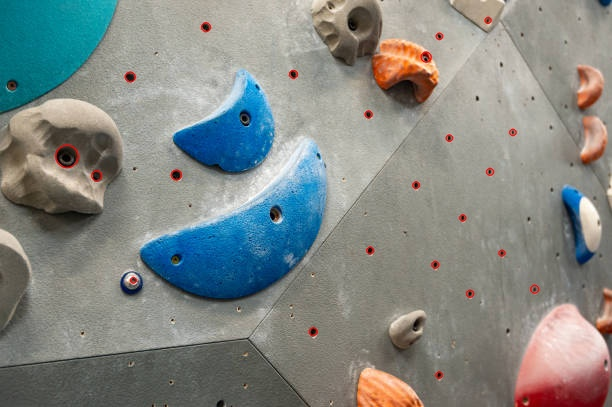
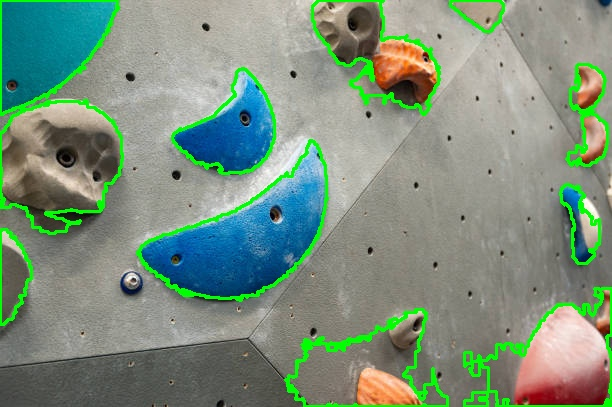
Final update

diff --git a/find_holds.py b/find_holds.py
@@ -1,33 +1,38 @@
 import cv2
 import numpy as np
 
-fileNum = 5
-path1 = f"data\\img{fileNum}.jpg"
-path2 = f"annotated\\img{fileNum}_annotated.jpg"
+fileNum = 3
+path1 = f"data\\img{fileNum}.jpg" #Input file
+path2 = f"annotated\\img{fileNum}_annotated.jpg" #Output file
 img = cv2.imread(path1)
 
-class Hold:
-    def __init__(self, keypoint, points):
-        self.keypoint = keypoint
-        self.points = points
 
 if img is None:
     print("\n\n----------\n\nError: Image not loaded successfully\n\n----------\n\n")
 else:
-    imgray = cv2.cvtColor(img, cv2.COLOR_BGR2GRAY)
-    imgray_blur = cv2.GaussianBlur(imgray, (3, 3), 0)
-    thresh, img_bw = cv2.threshold(imgray_blur, 0, 255, cv2.THRESH_BINARY + cv2.THRESH_OTSU)
-    ret, thresh = cv2.threshold(img_bw, 127, 255, 0)
-    contours, hierarchy = cv2.findContours(thresh, cv2.RETR_TREE, cv2.CHAIN_APPROX_SIMPLE)
+    hsv = cv2.cvtColor(img, cv2.COLOR_BGR2HSV) #Converting image to HSV color
+    
+    grey_lower = np.array([0, 0, 40]) #Lower HSV range for grey
+    grey_upper = np.array([180, 10, 180]) #Upper HSV range for grey
 
+    color_lower = np.array([20,100,100]) #Lower HSV range for chromatic colors
+    color_upper = np.array([30,255,255]) #Upper HSV range for chromatic colors
+ 
+
+    grey_mask = cv2.inRange(hsv, grey_lower, grey_upper) #Creates a mask that excludes any chromatic color(non grey)
+    color_mask = cv2.inRange(hsv, color_lower, color_upper) #Creates a mask that excludes any non-bright chromatic color
+
+    non_grey_mask = cv2.bitwise_not(grey_mask) #Takes the opposite of the grey mask, so everything not grey
+
+    mask = cv2.bitwise_and(color_mask, color_mask, mask=non_grey_mask) #Combining the grey and colored masks
+    contours, hierarchy = cv2.findContours(mask, cv2.RETR_TREE, cv2.CHAIN_APPROX_SIMPLE) #Applying the masks and finding white "countours"
     filtered_contours = []
 
     for contour in contours:
         area = cv2.contourArea(contour)
-        #IMG 6: 500, 70000
-        if 500 < area < 10000:
-            filtered_contours.append(contour)
+        if 300 < area < 10000000: #Checks if area of the contour(hold) found is within 300 and 10000000 pixels
+            filtered_contours.append(contour) #If the area fits, then it is added to a list of holds.
 
     result_img = img.copy()
-    cv2.drawContours(result_img, filtered_contours, -1, (0, 255, 0), 2)
+    cv2.drawContours(result_img, filtered_contours, -1, (0, 255, 0), 2) #Adds an outline to the holds found onto a copy of the original image
     cv2.imwrite(path2, result_img)

diff --git a/find_specific_holds.py b/find_specific_holds.py
@@ -1,0 +1,63 @@
+import cv2
+import numpy as np
+
+fileNum = 2
+path1 = f"data\\img{fileNum}.jpg" #Input file
+path2 = f"annotated\\img{fileNum}_annotated_mask_yellow.jpg" #Output file
+img = cv2.imread(path1)
+
+
+if img is None:
+    print("\n\n----------\n\nError: Image not loaded successfully\n\n----------\n\n")
+else:
+    hsv = cv2.cvtColor(img, cv2.COLOR_BGR2HSV) #Converting image to HSV color
+    
+    grey_lower = np.array([0, 0, 40]) #Lower HSV range for grey
+    grey_upper = np.array([180, 10, 180]) #Upper HSV range for grey
+
+    color_lower = np.array([20,100,100]) #Lower HSV range for a specified chromatic color
+    color_upper = np.array([30,255,255]) #Upper HSV range for a specified chromatic color
+ 
+    """
+    Yellow HSV Range:
+    color_lower = np.array([20,100,100])
+    color_upper = np.array([30,255,255])
+
+    Green HSV Range:
+    color_lower = np.array([40,40,40])
+    color_upper = np.array([80,255,255])
+
+    Orange HSV Range:
+    color_lower = np.array([0,100,100])
+    color_upper = np.array([20,255,255])
+    """
+
+    grey_mask = cv2.inRange(hsv, grey_lower, grey_upper) #Creates a mask that excludes any chromatic color(non grey)
+    color_mask = cv2.inRange(hsv, color_lower, color_upper) #Creates a mask that excludes anything not of the specified color
+
+    non_grey_mask = cv2.bitwise_not(grey_mask) #Takes the opposite of the grey mask, so everything not grey
+
+    mask = cv2.bitwise_and(color_mask, color_mask, mask=non_grey_mask) #Combining the grey and colored masks
+    #cv2.imwrite("annotated\\img2_mask_yellow.jpg", mask)
+    contours, hierarchy = cv2.findContours(mask, cv2.RETR_TREE, cv2.CHAIN_APPROX_SIMPLE) #Applying the masks and finding white "countours"
+    filtered_contours = []
+
+    for contour in contours:
+        area = cv2.contourArea(contour)
+        if 300 < area < 10000000: #Checks if area of the contour(hold) found is within 300 and 10000000 pixels
+            filtered_contours.append(contour) #If the area fits, then it is added to a list of holds.
+
+    result_img = img.copy()
+    cv2.drawContours(mask, filtered_contours, -1, (0, 0, 255), 2) #Adds an outline to the holds found onto a copy of the original image
+    cv2.imwrite(path2, mask)
+
+
+
+
+
+
+
+
+
+
+
